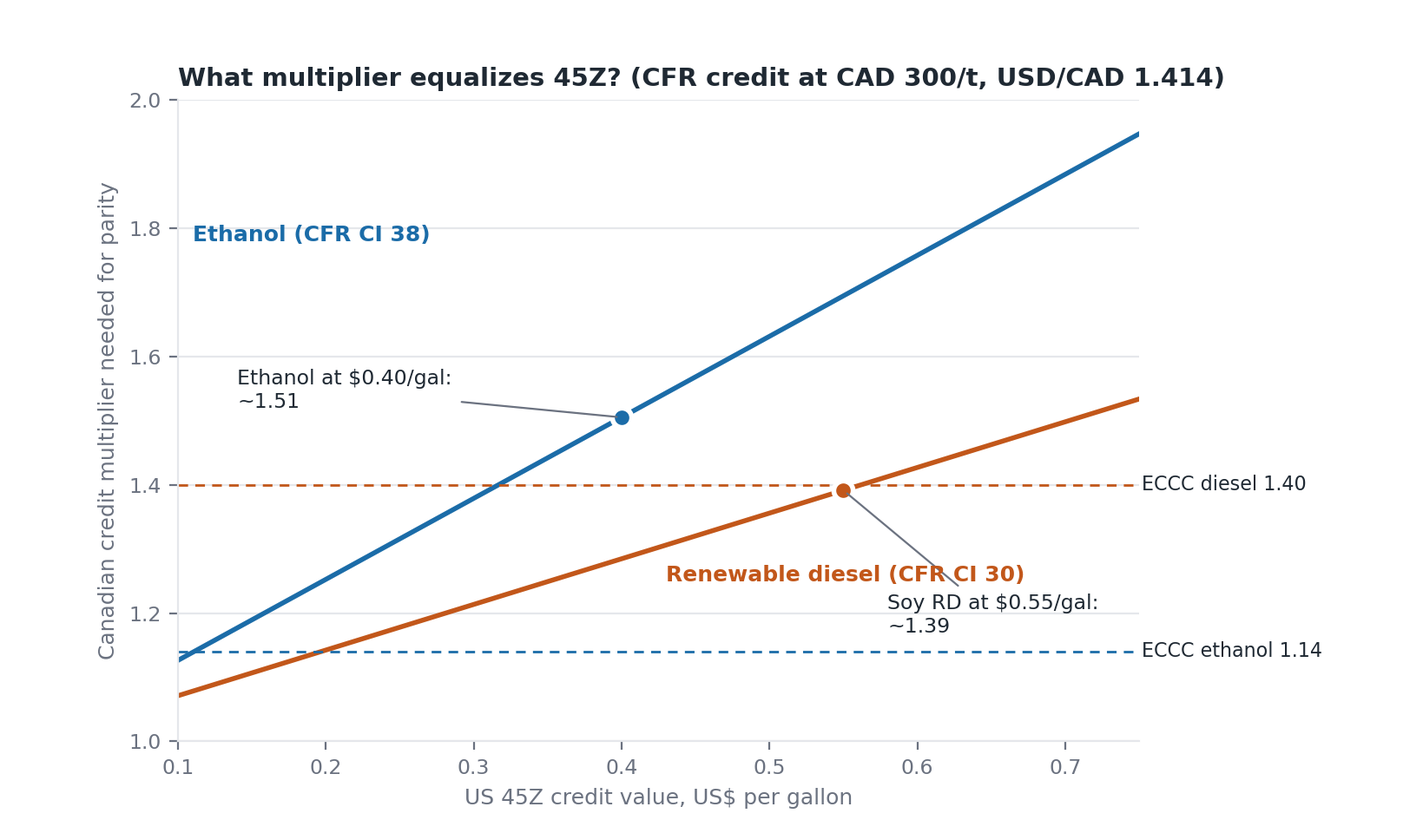
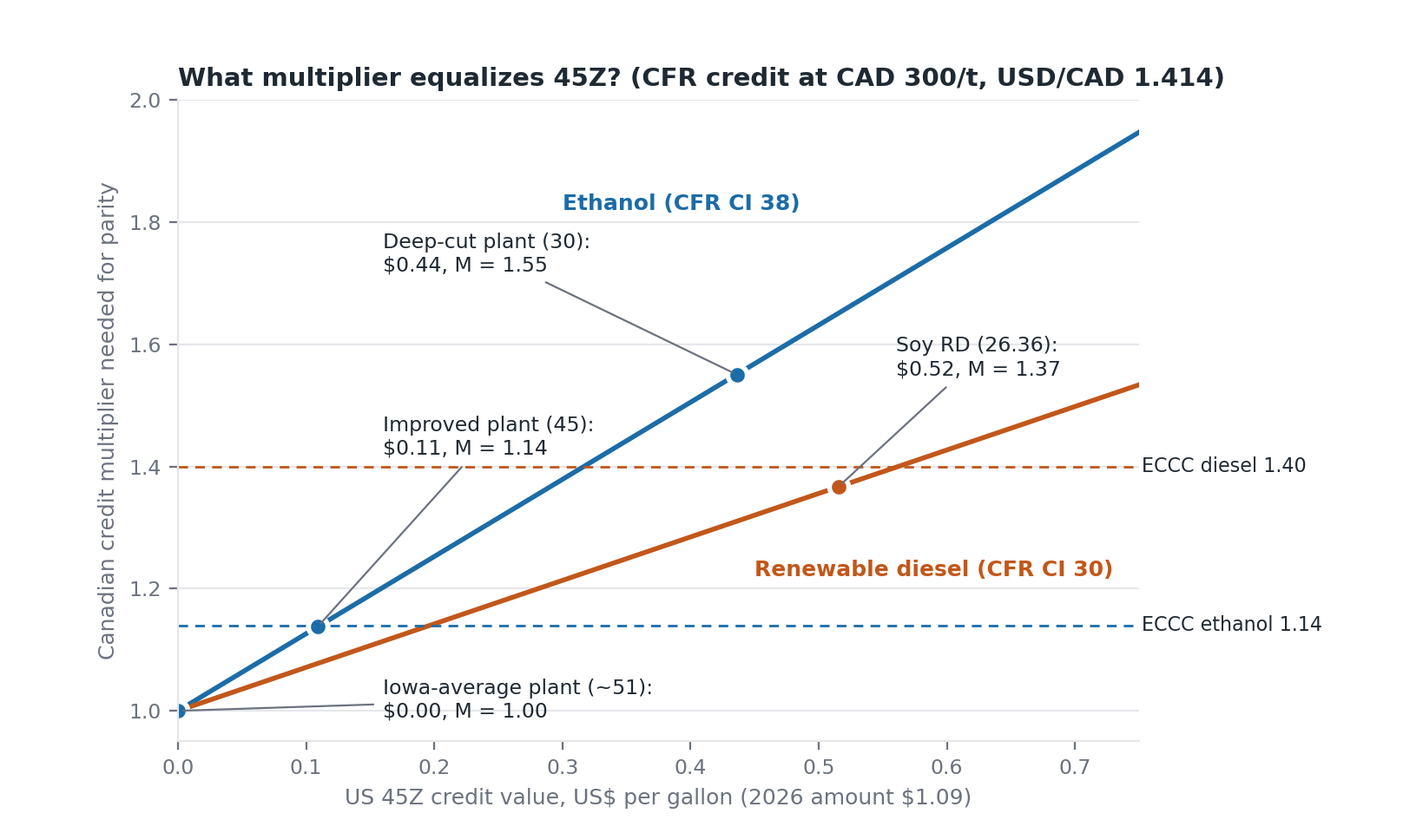
Revise CFR multiplier post per review: CFR explainer, 2026 45Z amount, IRFA Iowa scores, CAD 200 case

diff --git a/_research/2026-09-28-cfr-multiplier-45z-equalization.py b/_research/2026-09-28-cfr-multiplier-45z-equalization.py
@@ -1,17 +1,19 @@
 """
-CFR credit multiplier needed to equalize US 45Z value (per litre, CAD).
+CFR credit multiplier needed to equalize US 45Z value per litre (CAD).
+Rev. 2 (2026-09-28): adds 2026 inflation adjustment ($1.09), IRFA-based Iowa plant
+CI conversion (g/MJ -> kg/mmBtu, ILUC removed), and a CAD 200/t credit-price case.
 
-Equalization logic
-  A US plant earns 45Z (US$ per gallon) PLUS the same CFR credits a Canadian plant
-  earns per litre (multiplier 1.0) when it sells into Canada.
+Parity logic
+  A US plant selling into Canada earns 45Z PLUS ordinary CFR credits (multiplier 1.0).
   A Canadian plant earns CFR credits x M and no 45Z.
-  Parity:  (M - 1) * CFR_value_per_litre = 45Z_value_per_litre (CAD)
-           M = 1 + 45Z_CAD_per_L / CFR_value_per_L
+  (M - 1) * CFR_value_per_litre = 45Z_value_per_litre (CAD)
+  M = 1 + 45Z_CAD_per_L / CFR_value_per_L
 
 CFR credits per litre = (CI_ref - CI_fuel) [g/MJ] * energy density [MJ/L] * 1e-6 [t/g]
-  (Clean Fuel Regulations, credit formula CIdiff x (Q x D) x 10^-6; Schedule 2 energy densities)
-
-45Z per gallon = $1.00 * (50 - CI45Z) / 50   (PWA-compliant rate, CI in kg CO2e/mmBtu)
+  (Clean Fuel Regulations credit formula CIdiff x (Q x D) x 10^-6; Schedule 2 densities)
+45Z per gallon = applicable amount * (50 - rate)/50, rate in kg CO2e/mmBtu.
+  2026 applicable amount with prevailing wage/apprenticeship = $1.00 x 1.0929 = $1.09
+  (IRS Notice 2026-41).
 """
 import numpy as np
 import matplotlib
@@ -20,68 +22,93 @@ import matplotlib.pyplot as plt
 
 # ---- Inputs -------------------------------------------------------------
 L_PER_GAL = 3.785411784
-FX = 1.414                 # CAD per USD, 2026-09-24 (Fed H.10 / MTFX series)
-CI_REF = 80.1              # g/MJ, ECCC discussion paper assumption (both fuels)
-ED = {"ethanol": 23.419e-6, "rd": 34.921e-6, "bd": 35.183e-6}  # MJ/L * 1e-6 -> t per (g/MJ) per L
-PRICE_ECCC = 300.0         # CAD/t, ECCC 2030 assumption
+FX = 1.414                  # CAD per USD, 2026-09-24
+CI_REF = 80.1               # g/MJ, ECCC discussion paper
+ED = {"ethanol": 23.419e-6, "rd": 34.921e-6, "bd": 35.183e-6}
+PRICE_ECCC = 300.0
+AMOUNT_2026 = 1.09          # $/gal, 45Z alternative amount, 2026 (1.00 x 1.0929, rounded)
+MJ_PER_MMBTU = 1055.056
+G_MJ_TO_KG_MMBTU = MJ_PER_MMBTU / 1000.0     # 1.05506
 
 def cfr_value(ci, fuel, price):
-    """CAD per litre of CFR credit value."""
     return (CI_REF - ci) * ED[fuel] * price
 
-def val45z_cad_per_l(ci45z):
-    usd_gal = max(0.0, 1.00 * (50 - ci45z) / 50)
-    return usd_gal / L_PER_GAL * FX
+def usd_gal_45z(rate, amount=AMOUNT_2026):
+    return max(0.0, amount * (50 - rate) / 50)
 
-def multiplier(ci45z, fuel, ci_can, price):
-    return 1 + val45z_cad_per_l(ci45z) / cfr_value(ci_can, fuel, price)
+def cad_l_45z(rate, amount=AMOUNT_2026):
+    return usd_gal_45z(rate, amount) / L_PER_GAL * FX
 
-# ---- 1. Back-test ECCC's published multipliers ---------------------------
-print("== ECCC back-test (CAD 300/t, ref CI 80.1) ==")
+def multiplier(rate, fuel, ci_can, price, amount=AMOUNT_2026):
+    return 1 + cad_l_45z(rate, amount) / cfr_value(ci_can, fuel, price)
+
+# ---- 0. Iowa plant CI from the IRFA (Feb 2023) study --------------------
+print("== Iowa plant CI (IRFA Comparative Economics, Phase 1, Feb 2023) ==")
+LUC_GREET3 = 7.382          # g/MJ, GREET 3.0 default LUC used in the study
+LUC_CA = LUC_GREET3 + 12.62 # g/MJ, CA-GREET LUC (study: 12.62 higher)
+print(f"LUC: GREET3 {LUC_GREET3} g/MJ = {LUC_GREET3*G_MJ_TO_KG_MMBTU:.1f} kg/mmBtu; CA-GREET {LUC_CA:.1f} g/MJ")
+rows = [
+    ("Iowa avg, CA-CI as published (lowest corn-starch score)", 68.25, LUC_CA),
+    ("Iowa avg, CA-CI adjusted to GREET3 LUC", 55.83, LUC_GREET3),
+    ("National avg, GREET 3.0 default (Argonne)", 55.333, LUC_GREET3),
+    ("Iowa best published CA-CI (range low end 59)", 59.0, LUC_CA),
+    ("Iowa worst published CA-CI (range high end 82)", 82.0, LUC_CA),
+]
+for name, ci, luc in rows:
+    ex = ci - luc
+    kg = ex * G_MJ_TO_KG_MMBTU
+    print(f"{name}: {ci} g/MJ -> ex-LUC {ex:.2f} g/MJ = {kg:.1f} kg/mmBtu -> 45Z ${usd_gal_45z(kg):.3f}/gal")
+print("Score with CCS (IRFA: ~30-point cut) from 51:", round(51 - 30, 1), "->", f"${usd_gal_45z(21):.2f}/gal")
+print("Old-basis check: 55.83 g/MJ incl. LUC = %.1f kg/mmBtu" % (55.83 * G_MJ_TO_KG_MMBTU))
+
+# ---- 1. Back-test ECCC ---------------------------------------------------
+print("\n== ECCC back-test (CAD 300/t, ref CI 80.1) ==")
 for fuel, ci, us_c, eccc_m in [("ethanol", 38, 0.05, 1.14), ("rd", 30, 0.23, 1.40)]:
     cv = cfr_value(ci, fuel, PRICE_ECCC)
-    print(f"{fuel}: CFR value {cv*100:.1f} c/L at CI {ci}; ECCC US incentive {us_c*100:.0f} c/L "
-          f"-> implied M = {1+us_c/cv:.3f} (ECCC {eccc_m}); "
-          f"incentive implied by ECCC M = {(eccc_m-1)*cv*100:.1f} c/L")
-# 45Z CI that ECCC's 5c / 23c CAD per L would correspond to
+    print(f"{fuel}: CFR value {cv*100:.1f} c/L; ECCC US incentive {us_c*100:.0f} c/L -> M = {1+us_c/cv:.3f} "
+          f"(ECCC {eccc_m}); incentive implied by ECCC M = {(eccc_m-1)*cv*100:.1f} c/L")
 for fuel, us_c in [("ethanol", 0.05), ("rd", 0.23)]:
     usd_gal = us_c / FX * L_PER_GAL
-    print(f"{fuel}: {us_c*100:.0f} c CAD/L = US${usd_gal:.3f}/gal = 45Z CI of {50-usd_gal*50:.1f} kg/mmBtu")
+    print(f"{fuel}: {us_c*100:.0f} c CAD/L = US${usd_gal:.3f}/gal = 45Z rate of {50 - usd_gal*50/AMOUNT_2026:.1f} kg/mmBtu (at $1.09 amount)")
 
-# ---- 2. Ethanol: Iowa plant 45Z CI scenarios -----------------------------
-eth_ci45 = [45, 40, 35, 30, 25, 20, 15]
-prices = [300, 350, 430]
-print("\n== ETHANOL: multiplier needed (Canadian plant CFR CI 38) ==")
-print("45Z CI | US$/gal | CAD c/L | " + " | ".join(f"CAD{p}" for p in prices))
-for c in eth_ci45:
-    row = [multiplier(c, "ethanol", 38, p) for p in prices]
-    print(f"{c:6} | {1.0*(50-c)/50:7.2f} | {val45z_cad_per_l(c)*100:7.1f} | " + " | ".join(f"{m:5.2f}" for m in row))
+# CFR revenue per million litres (for the explainer)
+print("\nCFR credits per litre, ethanol CI 38:", round((CI_REF-38)*ED['ethanol'], 6), "t/L; per million litres:",
+      round((CI_REF-38)*ED['ethanol']*1e6), "credits; value at CAD 300: $%.0f" % ((CI_REF-38)*ED['ethanol']*1e6*300))
 
-print("\n== ETHANOL: 45Z CI 30 ($0.40/gal), sensitivity to Canadian plant CFR CI, price CAD 300/350 ==")
-for ci_can in [30, 34, 38, 42, 46, 50]:
-    print(ci_can, [round(multiplier(30, "ethanol", ci_can, p), 2) for p in (300, 350)])
+# ---- 2. Ethanol grid ------------------------------------------------------
+prices = [200, 300, 350, 430]
+eth_rates = [51, 48, 45, 43, 41, 40, 35, 30, 25, 21, 15]
+print("\n== ETHANOL: M needed (Canadian plant CFR CI 38) ==")
+print("45Z rate | US$/gal | CAD c/L | " + " | ".join(f"CAD{p}" for p in prices))
+for c in eth_rates:
+    print(f"{c:8} | {usd_gal_45z(c):7.3f} | {cad_l_45z(c)*100:7.1f} | " +
+          " | ".join(f"{multiplier(c,'ethanol',38,p):5.2f}" for p in prices))
 
-# ---- 3. Renewable diesel & biodiesel ------------------------------------
-print("\n== RD (soy, 45Z CI 26.36 = $0.55) / BD (soy, 45Z CI 20.23 = $0.66); Canadian CFR CI 30 ==")
-for label, fuel, c45 in [("RD", "rd", 26.36), ("BD", "bd", 20.23)]:
-    print(label, f"45Z ${(50-c45)/50:.3f}/gal = {val45z_cad_per_l(c45)*100:.1f} c CAD/L;",
-          {p: round(multiplier(c45, fuel, 30, p), 2) for p in prices})
-print("\nRD sensitivity to Canadian CFR CI (45Z CI 26.36):")
+print("\n== ETHANOL sensitivity to Canadian CFR CI (45Z rate 45 and 30), prices 200/300/430 ==")
+for r in (45, 30):
+    for ci_can in [30, 34, 38, 42, 46, 50]:
+        print(r, ci_can, [round(multiplier(r, "ethanol", ci_can, p), 2) for p in (200, 300, 430)])
+
+# ---- 3. RD / BD ---------------------------------------------------------
+print("\n== RD (soy, rate 26.36) / BD (soy, rate 20.23); Canadian CFR CI 30 ==")
+for label, fuel, r, asa in [("RD", "rd", 26.36, 0.55), ("BD", "bd", 20.23, 0.66)]:
+    print(label, f"formula ${usd_gal_45z(r):.3f}/gal ({cad_l_45z(r)*100:.1f} c CAD/L) vs ASA ${asa}:",
+          {p: round(multiplier(r, fuel, 30, p), 2) for p in prices})
+    amt_asa = asa * 50 / (50 - r)
+    print("   ASA-implied applicable amount:", round(amt_asa, 3),
+          {p: round(multiplier(r, fuel, 30, p, amt_asa), 2) for p in prices})
+print("\nRD sensitivity to Canadian CFR CI:")
 for ci_can in [20, 25, 30, 35, 40]:
     print(ci_can, {p: round(multiplier(26.36, "rd", ci_can, p), 2) for p in prices})
-print("\nBD sensitivity to Canadian CFR CI (45Z CI 20.23):")
+print("BD sensitivity to Canadian CFR CI:")
 for ci_can in [20, 25, 30, 35, 40]:
     print(ci_can, {p: round(multiplier(20.23, "bd", ci_can, p), 2) for p in prices})
-print("\nAlt RD/BD 45Z per gallon (older-model soy values 0.11 / 0.33):")
-for label, fuel, usd in [("RD old", "rd", 0.11), ("BD old", "bd", 0.33)]:
-    c45 = 50 - usd * 50
-    print(label, round(multiplier(c45, fuel, 30, 300), 2))
 
 # ---- 4. Chart -------------------------------------------------------------
 INK, MUTED, GRID = "#1f2933", "#6b7280", "#e5e7eb"
 C_ETH, C_RD = "#1b6ca8", "#c2571a"
 fig, ax = plt.subplots(figsize=(8.2, 4.8), dpi=200)
-x = np.linspace(0.10, 0.75, 200)          # US$/gal 45Z value
+x = np.linspace(0.0, 0.75, 200)
 def m_from_usd_gal(u, fuel, ci_can, price):
     return 1 + (u / L_PER_GAL * FX) / cfr_value(ci_can, fuel, price)
 ax.plot(x, m_from_usd_gal(x, "ethanol", 38, 300), color=C_ETH, lw=2)
@@ -90,19 +117,23 @@ ax.axhline(1.14, color=C_ETH, lw=1, ls=(0, (4, 3)))
 ax.axhline(1.40, color=C_RD, lw=1, ls=(0, (4, 3)))
 ax.text(0.752, 1.14, "ECCC ethanol 1.14", color=INK, fontsize=8, va="center")
 ax.text(0.752, 1.40, "ECCC diesel 1.40", color=INK, fontsize=8, va="center")
-# scenario markers
-pts = [("Ethanol\n$0.40 (CI 30)", 0.40, m_from_usd_gal(0.40, "ethanol", 38, 300), C_ETH),
-       ("Soy RD\n$0.55", 0.55, m_from_usd_gal(0.55, "rd", 30, 300), C_RD)]
-for lab, u, m, col in pts:
-    ax.plot([u], [m], "o", ms=8, color=col, mec="white", mew=2)
-ax.annotate("Ethanol at $0.40/gal:\n~%.2f" % m_from_usd_gal(0.40, "ethanol", 38, 300), (0.40, m_from_usd_gal(0.40, "ethanol", 38, 300)),
-            xytext=(0.14, 1.52), fontsize=8.5, color=INK, arrowprops=dict(arrowstyle="-", color=MUTED, lw=0.8))
-ax.annotate("Soy RD at $0.55/gal:\n~%.2f" % m_from_usd_gal(0.55, "rd", 30, 300), (0.55, m_from_usd_gal(0.55, "rd", 30, 300)),
-            xytext=(0.58, 1.17), fontsize=8.5, color=INK, arrowprops=dict(arrowstyle="-", color=MUTED, lw=0.8))
-ax.text(0.11, 1.78, "Ethanol (CFR CI 38)", color=C_ETH, fontsize=9, fontweight="bold")
-ax.text(0.43, 1.25, "Renewable diesel (CFR CI 30)", color=C_RD, fontsize=9, fontweight="bold")
-ax.set_xlim(0.10, 0.75); ax.set_ylim(1.0, 2.0)
-ax.set_xlabel("US 45Z credit value, US$ per gallon", color=MUTED, fontsize=9)
+e1, e2, r1 = usd_gal_45z(45), usd_gal_45z(30), usd_gal_45z(26.36)
+for u, fuel, ci, col in [(e1, "ethanol", 38, C_ETH), (e2, "ethanol", 38, C_ETH), (r1, "rd", 30, C_RD), (0, "ethanol", 38, C_ETH)]:
+    ax.plot([u], [m_from_usd_gal(u, fuel, ci, 300)], "o", ms=8, color=col, mec="white", mew=2)
+def note(txt, pt, xy_text):
+    ax.annotate(txt, pt, xytext=xy_text, fontsize=8.5, color=INK,
+                arrowprops=dict(arrowstyle="-", color=MUTED, lw=0.8))
+note("Iowa-average plant (~51):\n$0.00, M = 1.00", (0, 1.0), (0.16, 0.99))
+note("Improved plant (45):\n$%.2f, M = %.2f" % (e1, m_from_usd_gal(e1, "ethanol", 38, 300)),
+     (e1, m_from_usd_gal(e1, "ethanol", 38, 300)), (0.16, 1.42))
+note("Deep-cut plant (30):\n$%.2f, M = %.2f" % (e2, m_from_usd_gal(e2, "ethanol", 38, 300)),
+     (e2, m_from_usd_gal(e2, "ethanol", 38, 300)), (0.16, 1.72))
+note("Soy RD (26.36):\n$%.2f, M = %.2f" % (r1, m_from_usd_gal(r1, "rd", 30, 300)),
+     (r1, m_from_usd_gal(r1, "rd", 30, 300)), (0.56, 1.55))
+ax.text(0.30, 1.82, "Ethanol (CFR CI 38)", color=C_ETH, fontsize=9, fontweight="bold")
+ax.text(0.45, 1.22, "Renewable diesel (CFR CI 30)", color=C_RD, fontsize=9, fontweight="bold")
+ax.set_xlim(0.0, 0.75); ax.set_ylim(0.95, 2.0)
+ax.set_xlabel("US 45Z credit value, US\$ per gallon (2026 amount \$1.09)", color=MUTED, fontsize=9)
 ax.set_ylabel("Canadian credit multiplier needed for parity", color=MUTED, fontsize=9)
 ax.set_title("What multiplier equalizes 45Z? (CFR credit at CAD 300/t, USD/CAD 1.414)",
              loc="left", fontsize=10.5, color=INK, fontweight="bold")

diff --git a/_posts/2026-09-28-cfr-credit-multiplier-45z-parity.md b/_posts/2026-09-28-cfr-credit-multiplier-45z-parity.md
@@ -1,34 +1,46 @@
 ---
 layout: post
-title: "Ottawa's Proposed Biofuel Credit Multiplier Would Match the US 45Z Credit at 1.14 for Ethanol. Our Math Says Matching an Iowa Plant Takes About 1.5"
+title: "Ottawa's Proposed Biofuel Credit Multiplier vs. the US 45Z Credit: 1.14 Fits an Improved Iowa Ethanol Plant, but the Average Plant Earns Almost Nothing"
 date: 2026-09-28
 categories: [biofuels, trade-policy, energy-policy]
-excerpt: "Environment and Climate Change Canada says a credit multiplier of about 1.14 for ethanol and 1.4 for biomass-based diesel would replicate what US producers get from the 45Z tax credit. The diesel number holds up when you run the math. The ethanol number looks too low once you account for how the US dropped indirect land-use emissions from 45Z scoring in 2026."
+excerpt: "Environment and Climate Change Canada says a credit multiplier of about 1.14 for ethanol and 1.4 for biomass-based diesel would replicate the US 45Z credit. We rebuilt both numbers. Diesel holds up. Ethanol depends almost entirely on which Iowa plant you compare against: an average plant scores right at the 45Z threshold and earns close to nothing, while a plant with deep cuts needs a multiplier above 1.5."
 source: manual
 sources_cited:
   - "https://www.canada.ca/en/environment-climate-change/corporate/transparency/consultations/share-view-ideas-targeted-amendments-clean-fuel-regulations/discussion-paper.html"
+  - "https://www.canada.ca/en/environment-climate-change/services/managing-pollution/energy-production/fuel-regulations/clean-fuel-regulations/regulatory-design.html"
   - "https://www.clearbluemarkets.com/knowledge-base/canadas-clean-fuel-regulations-and-us-45z-incentives-what-to-expect-from-the-cfr-targeted-amendments"
   - "https://ethanolrfa.org/media-and-news/category/news-releases/article/2026/01/rfa-comments-on-proposed-amendments-to-canada-s-clean-fuel-regulations"
   - "https://laws-lois.justice.gc.ca/eng/regulations/SOR-2022-140/page-12.html"
+  - "https://www.irs.gov/pub/irs-irbs/irb26-29.pdf"
   - "https://www.irs.gov/pub/irs-drop/n-26-53.pdf"
   - "https://www.hklaw.com/en/insights/publications/2026/09/section-45z-2026-emissions-rate-table"
-  - "https://www.agbull.com/beyond-rins-45z-carbon-scores-and-trade-redraw-the-biofuels-market/"
   - "https://www.grainjournal.com/article/1153414/updated-45z-model-could-boost-soybean-demand-and-farm-level-value"
   - "https://farmdocdaily.illinois.edu/2026/05/the-clean-fuel-production-tax-credit-45z-introductory-discussion.html"
   - "https://www.foundationeconomics.com/insights/260506_CFRPriceDynamics"
   - "https://www.mtfxgroup.com/tools/historical-currency-exchange-rates/usd-to-cad-rate/"
-  - "https://www.mickco.com/news-insights/greet-model-revised"
 ---
 
 **By Kal Sharven**
 
-**TL;DR:** Ottawa is considering a credit multiplier under the Clean Fuel Regulations (CFR): domestic low-carbon fuel would earn more compliance credits per litre than the same imported fuel. ECCC's December 2025 discussion paper says a multiplier of about **1.4 for biomass-based diesel** and about **1.14 for ethanol** would replicate the per-litre value US producers get from the 45Z tax credit. We reverse-engineered both numbers and then re-ran them against 45Z as it works after the 2026 rule changes. For renewable diesel and biodiesel, ECCC's 1.4 checks out: parity lands at roughly **1.34 to 1.47** depending on the fuel and inputs. For ethanol, it doesn't. ECCC's 1.14 implies a US benefit of about 5 cents CAD per litre, which corresponds to a 45Z score near 43 kg CO2e/mmBtu, or roughly US$0.13 a gallon. But the US removed indirect land-use change (ILUC) emissions from 45Z scoring for fuel made after 2025, and industry analysts put a typical corn ethanol plant near a score of 30, worth about **US$0.40 a gallon**. At that value the multiplier needed for parity is about **1.5**, not 1.14. The gap is not a math error on ECCC's part so much as a timing one: the discussion paper (December 3, 2025) predates the US model update (June 12, 2026) that changed the answer.
+**TL;DR:** Ottawa is considering a credit multiplier under the Clean Fuel Regulations (CFR): domestic low-carbon fuel would earn more compliance credits per litre than the same imported fuel. ECCC's December 2025 discussion paper says a multiplier of about **1.4 for biomass-based diesel** and about **1.14 for ethanol** would replicate the per-litre value US producers get from the 45Z tax credit. We rebuilt both numbers and re-ran them with 2026 45Z rules. For renewable diesel and biodiesel, ECCC's 1.4 checks out: parity lands between about **1.37 and 1.46** at ECCC's CAD 300 credit price. For ethanol, the answer depends on which Iowa plant is the benchmark. Working from published Iowa plant scores and removing the indirect land-use change (ILUC) emissions that 45Z no longer counts, an **average Iowa plant scores about 51 kg CO2e/mmBtu, right at the 50 threshold, and earns roughly nothing** from 45Z, so it needs no multiplier at all. ECCC's 1.14 matches a plant scoring about 44 to 45, worth about US$0.11 a gallon. A plant that cuts its score to 30 (US$0.44) needs about **1.55**, and one with carbon capture needs about **1.8**. The multiplier is a single number applied to every Canadian plant, but the US benefit it is meant to offset ranges from zero to over 60 cents a gallon.
 
-## What Ottawa actually proposed
+## How the Clean Fuel Regulations create value
 
-On September 5, 2025, the federal government announced targeted amendments to the CFR alongside a CAD 370 million Biofuel Production Incentive covering 2026 and 2027. ECCC's [discussion paper](https://www.canada.ca/en/environment-climate-change/corporate/transparency/consultations/share-view-ideas-targeted-amendments-clean-fuel-regulations/discussion-paper.html) laid out two ways to favour domestic low-carbon fuel: a minimum domestic content requirement, or a credit multiplier. The context is import share: in 2024, more than 70% of CFR compliance credits came from imported fuel, mostly from the US, and imported US grain ethanol supplied 61% of the ethanol used to comply, according to the [Renewable Fuels Association](https://ethanolrfa.org/media-and-news/category/news-releases/article/2026/01/rfa-comments-on-proposed-amendments-to-canada-s-clean-fuel-regulations) (RFA). US trade groups have come out in favour of the multiplier over the domestic-content option.
+A multiplier only makes sense once you see where CFR credits get their value, and that starts with the companies that have to buy them.
 
-The multiplier works on credit creation. A domestic low-carbon fuel would generate more credits per litre than the identical imported litre. ECCC left open that different fuels could get different multipliers, and it sized the two headline examples to "the per-litre value Canadian producers are giving up by not having an equivalent to 45Z." Its stated inputs:
+**The obligation.** The CFR obligates "fossil fuel primary suppliers," which for liquid fuels means the companies that produce or import gasoline and diesel in Canada. Each must lower the carbon intensity (CI) of the fuel it supplies, reaching a cut of 10 g CO2e/MJ by 2030 from a 2016 baseline, roughly 11%. That is measured in credits, one credit per tonne of CO2e. At the end of each compliance period, a supplier has to retire credits equal to its obligation.
+
+**How a supplier meets it.** There are three routes: create credits itself, buy them from someone else, or draw on the backstops in the regulation (a payment option and a "credit clearance mechanism" for suppliers that cannot find enough credits). Credits are created in three categories: reducing the emissions of producing fossil fuels (Category 1), supplying low-carbon fuels like ethanol, biodiesel, and renewable diesel (Category 2), and switching end-use fuel to natural gas, propane, or electricity (Category 3). Only Category 2 matters here.
+
+**Where an ethanol plant's value comes from.** A producer or importer of low-CI fuel who is registered under the CFR creates credits according to a formula: (reference CI minus the fuel's CI) times the energy in the fuel, in tonnes. A litre of ethanol at 38 g/MJ, measured against ECCC's 80.1 g/MJ reference, earns about 0.00099 tonnes, or 986 credits per million litres. At CAD 300 a credit, that is about CAD 296,000 per million litres, or roughly 30 cents a litre. The producer does not collect that from the government. It collects it by selling the credits (or the fuel with the credits attached) to obligated suppliers, whose demand is set by the regulation. Credit prices then move with how tight the market is between obligation and supply, which is why they have ranged from the low hundreds to above CAD 400.
+
+**Why imports matter.** The credit belongs to whoever creates it, wherever the fuel was made, so a US plant selling into Canada can earn the same credits as a Canadian plant. In 2024, more than 70% of CFR credits came from imported fuel, mostly from the US, and imported US grain ethanol supplied 61% of the ethanol used for compliance, according to the [Renewable Fuels Association](https://ethanolrfa.org/media-and-news/category/news-releases/article/2026/01/rfa-comments-on-proposed-amendments-to-canada-s-clean-fuel-regulations) (RFA). That is the gap the multiplier targets: the US plant earns the CFR credits **and** the 45Z credit, and the Canadian plant earns only the CFR credits.
+
+## What Ottawa proposed
+
+On September 5, 2025, the federal government announced targeted amendments to the CFR alongside a CAD 370 million Biofuel Production Incentive covering 2026 and 2027. ECCC's [discussion paper](https://www.canada.ca/en/environment-climate-change/corporate/transparency/consultations/share-view-ideas-targeted-amendments-clean-fuel-regulations/discussion-paper.html) laid out two ways to favour domestic low-carbon fuel: a minimum domestic content requirement, or a credit multiplier. US trade groups have come out in favour of the multiplier over the domestic-content option.
+
+The multiplier works on credit creation: a domestic low-carbon fuel would generate more credits per litre than the identical imported litre. ECCC left open that different fuels could get different multipliers, and it sized the two headline examples to "the per-litre value Canadian producers are giving up by not having an equivalent to 45Z." Its stated inputs:
 
 | | Renewable diesel | Ethanol |
 |---|---|---|
@@ -38,59 +50,58 @@ The multiplier works on credit creation. A domestic low-carbon fuel would genera
 | Average fuel carbon intensity | 30 g CO2e/MJ | 38 g CO2e/MJ |
 | US production incentive | ~23 cents CAD/L | ~5 cents CAD/L |
 
-As of the most recent reporting we could find (late August 2026), draft regulatory text had not yet appeared in the Canada Gazette, Part I, so none of this is final.
-
 ## The parity math
 
-Setting the multiplier so a Canadian plant matches a US plant is a one-line calculation. A US plant selling into Canada earns 45Z **plus** the ordinary CFR credits (multiplier of 1.0). A Canadian plant earns CFR credits times M and no 45Z. Parity requires:
+Setting the multiplier so a Canadian plant matches a US plant is a one-line calculation. A US plant selling into Canada earns 45Z **plus** the ordinary CFR credits (a multiplier of 1.0). A Canadian plant earns CFR credits times M and no 45Z. Parity requires:
 
 **M = 1 + (45Z value per litre, in CAD) / (CFR credit value per litre, in CAD)**
 
 Both pieces are computable from public rules:
 
 - **CFR credits per litre** = (reference CI − fuel CI) × energy density × 10⁻⁶, multiplied by the credit price. The [regulations](https://laws-lois.justice.gc.ca/eng/regulations/SOR-2022-140/page-12.html) (Schedule 2) set energy density at 23.419 MJ/L for ethanol, 34.921 MJ/L for renewable diesel, and 35.183 MJ/L for biodiesel.
-- **45Z value per gallon** = US$1.00 × (50 − emissions rate) / 50, where the rate is in kg CO2e/mmBtu and the $1.00 assumes the prevailing-wage and apprenticeship requirements are met. Without them the credit is one-fifth of that.
+- **45Z value per gallon** = the applicable amount × (50 − emissions rate) / 50, where the rate is in kg CO2e/mmBtu. The statutory $1.00 (which requires prevailing-wage and apprenticeship compliance) is indexed to inflation. IRS [Notice 2026-41](https://www.irs.gov/pub/irs-irbs/irb26-29.pdf) sets the 2026 factor at 1.0929, which makes the 2026 amount **$1.09** a gallon (the no-wage-compliance base amount is 22 cents).
 - **Conversion**: 3.785 litres per gallon and USD/CAD of 1.414 (the September 24 rate).
 
-**Back-testing ECCC.** Plugging ECCC's own inputs into this formula gives 1.17 for ethanol and 1.44 for renewable diesel, against its published 1.14 and 1.4. The diesel figure is close. The ethanol figure implies ECCC used a US benefit nearer 4 cents CAD/L than 5. That is well within the "approximately" in the paper, and it tells us the formula is a fair reconstruction of ECCC's method, which the paper does not spell out. (ECCC does not disclose the exchange rate or the exact 45Z score it used.)
+**Back-testing ECCC.** Plugging ECCC's own inputs into this formula gives 1.17 for ethanol and 1.44 for renewable diesel, against its published 1.14 and 1.4. The diesel figure is close. The ethanol figure implies ECCC used a US benefit nearer 4 cents CAD/L than 5, well within the "approximately" in the paper. ECCC's 5 cents converts to about US$0.13 a gallon, or a 45Z score of about 44 kg CO2e/mmBtu. The paper does not disclose the exchange rate or the exact 45Z score it used.
 
-## Ethanol: what an Iowa plant's 45Z score means for the multiplier
+## Ethanol: what Iowa plants actually score
 
-The right starting question is what an Iowa dry-mill plant's credit actually is, and that is where ECCC's number gets shaky. Notice 2026-53, issued September 8, confirms that fuel made after 2025 must [exclude ILUC emissions](https://www.hklaw.com/en/insights/publications/2026/09/section-45z-2026-emissions-rate-table) from 45Z scoring, and that feedstock must come from the US, Canada, or Mexico. The updated 45ZCF-GREET model published June 12 implements this. The notice points plants to the model and does not publish a "typical plant" score, so each plant computes its own. Industry analysts have described the ILUC removal as dropping an average corn ethanol plant's score by 20 to 25 points, and one recent market [analysis](https://www.agbull.com/beyond-rins-45z-carbon-scores-and-trade-redraw-the-biofuels-market/) uses a score of 30 kg CO2e/mmBtu as an illustration, worth $0.40 a gallon. We treat a range of scores as scenarios, since we could not locate an official plant-average figure.
+The right starting question is what an Iowa dry-mill plant's 45Z score really is. The best public data we could find is the Iowa Renewable Fuels Association's *Comparative Economics of Carbon Sequestration for Iowa Ethanol Plants, Phase 1* (February 2023). It reports published California-model (CA-GREET) scores for Iowa plants of **59 to 82 g CO2e/MJ**, with a state average of **68.25** for each plant's lowest published corn-starch score. Three adjustments matter before those numbers say anything about 45Z:
 
-The table shows the multiplier that equalizes each score, for a Canadian plant at ECCC's assumed CFR carbon intensity of 38 g/MJ, at three credit prices:
+1. **Units.** The study reports g CO2e/MJ. The 45Z credit uses kg CO2e/mmBtu. One mmBtu is 1,055 MJ, so multiply g/MJ by **1.055** to get kg/mmBtu.
+2. **ILUC.** Fuel made after 2025 must [exclude](https://www.hklaw.com/en/insights/publications/2026/09/section-45z-2026-emissions-rate-table) indirect land-use change emissions (Notice 2026-53, September 8). The California model carries about 20 g/MJ of land-use change; the GREET 3.0 default used in the study is 7.4 g/MJ. So removing it takes about 7.4 g/MJ (about 7.8 kg/mmBtu) off a GREET-based score, and about 20 g/MJ off a California-model score. Trade coverage that describes ILUC removal as worth "20 to 25 points" appears to reflect the California-model figure. Against the GREET-based score that 45Z uses, the change is far smaller, closer to 8 kg/mmBtu at the GREET 3.0 default (later GREET versions may carry a somewhat different value).
+3. **Model and year.** These are 2023 scores under California-model assumptions. The 45ZCF-GREET model (updated June 12 and September 8, 2026) differs in other inputs, plants have made efficiency gains since 2023, and 45Z now lets producers earn additional reductions from low-carbon farming practices.
 
-| 45Z score (kg CO2e/mmBtu) | 45Z value (US$/gal) | 45Z value (CAD c/L) | M at CAD 300/t | M at CAD 350/t | M at CAD 430/t |
-|---|---|---|---|---|---|
-| 45 | $0.10 | 3.7 | 1.13 | 1.11 | 1.09 |
-| 40 | $0.20 | 7.5 | 1.25 | 1.22 | 1.18 |
-| 35 | $0.30 | 11.2 | 1.38 | 1.32 | 1.26 |
-| **30** | **$0.40** | **14.9** | **1.51** | **1.43** | **1.35** |
-| 25 | $0.50 | 18.7 | 1.63 | 1.54 | 1.44 |
-| 20 | $0.60 | 22.4 | 1.76 | 1.65 | 1.53 |
-| 15 | $0.70 | 26.1 | 1.88 | 1.76 | 1.62 |
+Putting those together, an average Iowa plant lands at about **51 kg CO2e/mmBtu**, based on the study's GREET-adjusted average of 55.83 g/MJ (less 7.4 for ILUC, times 1.055). The study's national GREET default of 55.3 g/MJ works out to 50.6. The best published Iowa score in the range (59 g/MJ on the California model) works out to about 41; the worst (82) works out to about 65, which earns nothing. The study's own estimate that carbon capture cuts a plant's score by about 30 points would bring a 51 plant to about 21.
 
-ECCC's 1.14 corresponds to the top row, a plant scoring in the mid-40s and collecting about ten cents a gallon. That is roughly what a typical plant would have looked like with ILUC still in the score. It is not what the same plant collects in 2026. A plant with carbon capture, which the same analysts put in the low teens on the 45Z scale, sits at the bottom of the table and would need a multiplier of about 1.9 at CAD 300.
+The table shows the multiplier that equalizes each score, for a Canadian plant at ECCC's assumed CFR carbon intensity of 38 g/MJ, at four credit prices. The CAD 200 column is a stress case: credit prices are above CAD 400 today, but they have moved widely and the multiplier is only as valuable as the credit it multiplies.
 
-Two other inputs move the answer:
+| 45Z score (kg CO2e/mmBtu) | Plant type | 45Z value (US$/gal) | 45Z value (CAD c/L) | M at CAD 200/t | M at CAD 300/t | M at CAD 350/t | M at CAD 430/t |
+|---|---|---|---|---|---|---|---|
+| 51 | Iowa average (IRFA, ILUC removed) | $0.00 | 0.0 | 1.00 | 1.00 | 1.00 | 1.00 |
+| 48 | Modest improvement | $0.04 | 1.6 | 1.08 | 1.06 | 1.05 | 1.04 |
+| **45** | **Improved plant (≈ECCC's implied 44)** | **$0.11** | **4.1** | **1.21** | **1.14** | **1.12** | **1.10** |
+| 41 | Best published Iowa score | $0.20 | 7.3 | 1.37 | 1.25 | 1.21 | 1.17 |
+| 35 | Large cuts | $0.33 | 12.2 | 1.62 | 1.41 | 1.35 | 1.29 |
+| 30 | Deeper cuts | $0.44 | 16.3 | 1.83 | 1.55 | 1.47 | 1.38 |
+| 21 | Carbon capture (IRFA ~30-point cut) | $0.63 | 23.6 | 2.20 | 1.80 | 1.68 | 1.56 |
 
-- **The Canadian plant's own score.** A Canadian plant with a higher CFR carbon intensity earns fewer credits per litre, so the multiplier has a smaller base to work on and must be larger to deliver the same cents. At a 45Z score of 30 and CAD 300, parity ranges from 1.42 (Canadian CI of 30) to 1.71 (CI of 50).
-- **The credit price.** The multiplier scales the credit, so its dollar value rises and falls with the CFR price. CFR credits reportedly [reached CAD 430 per tonne](https://www.foundationeconomics.com/insights/260506_CFRPriceDynamics) in early April 2026, well above ECCC's CAD 300 assumption for 2030. At CAD 430, parity for the $0.40 plant falls to 1.35. If credit prices stay high, a smaller multiplier does the same job.
+Reading it across: at ECCC's own credit price, its 1.14 is right for a plant that has taken a few points off the average, and too high for the average plant, which earns nothing from 45Z. It is too low for a plant that gets its score to the mid-30s or below. The multiplier is also much more sensitive to the credit price when the US benefit is large: for the score-30 plant it runs from 1.83 at CAD 200 to 1.38 at CAD 430.
+
+One more input moves the answer: the Canadian plant's own CFR score. A Canadian plant with a higher carbon intensity earns fewer credits per litre, so the multiplier has a smaller base to work on and must be larger to deliver the same cents. For the 45 plant at CAD 300, parity ranges from 1.12 (Canadian CI of 30) to 1.19 (CI of 50); for the score-30 plant it ranges from 1.46 to 1.77.
 
 ## Renewable diesel and biodiesel
 
-The diesel side is where ECCC's number holds. The soybean pathway is scored with the same ILUC exclusion. The American Soybean Association, as [reported](https://www.grainjournal.com/article/1153414/updated-45z-model-could-boost-soybean-demand-and-farm-level-value) by Grain Journal on August 28, puts soybean-oil renewable diesel at a score of 26.36 (down from 42.60), worth $0.55 a gallon, and soybean biodiesel at 20.23 (down from 33.70), worth $0.66 a gallon.
+The diesel side is where ECCC's number holds. The soybean pathway gets the same ILUC exclusion. The American Soybean Association, as [reported](https://www.grainjournal.com/article/1153414/updated-45z-model-could-boost-soybean-demand-and-farm-level-value) by Grain Journal on August 28, puts soybean-oil renewable diesel at a score of 26.36 (down from 42.60) and soybean biodiesel at 20.23 (down from 33.70). Applying the 2026 formula at $1.09 gives **$0.52** a gallon for renewable diesel and **$0.65** for biodiesel. The ASA quotes slightly higher figures ($0.55 and $0.66); using those would raise the multipliers below by up to 0.02.
 
-One inconsistency to flag: applying the statutory formula to those scores gives $0.47 and $0.60, not $0.55 and $0.66. We do not know whether the gap reflects inflation indexing, rounding, or a different basis in the ASA's calculation, so we show both. Parity for a Canadian plant at a CFR score of 30 g/MJ, using each version:
+Parity for a Canadian plant at a CFR score of 30 g/MJ:
 
-| Fuel | 45Z basis | M at CAD 300/t | M at CAD 350/t | M at CAD 430/t |
-|---|---|---|---|---|
-| Renewable diesel (soy, CI 26.36) | Formula, $0.47/gal | 1.34 | 1.29 | 1.23 |
-| Renewable diesel (soy, CI 26.36) | ASA figure, $0.55/gal | 1.39 | 1.33 | 1.27 |
-| Biodiesel (soy, CI 20.23) | Formula, $0.60/gal | 1.42 | 1.36 | 1.29 |
-| Biodiesel (soy, CI 20.23) | ASA figure, $0.66/gal | 1.47 | 1.40 | 1.33 |
+| Fuel | 45Z value (US$/gal) | 45Z value (CAD c/L) | M at CAD 200/t | M at CAD 300/t | M at CAD 350/t | M at CAD 430/t |
+|---|---|---|---|---|---|---|
+| Renewable diesel (soy, score 26.36) | $0.52 | 19.3 | 1.55 | 1.37 | 1.31 | 1.26 |
+| Biodiesel (soy, score 20.23) | $0.65 | 24.2 | 1.69 | 1.46 | 1.39 | 1.32 |
 
-At ECCC's own credit price, its 1.4 sits just above the renewable diesel range (1.34 to 1.39) and just below the biodiesel range (1.42 to 1.47), so it is a fair round number for both. If the reference is waste-based feedstock with a much lower score, the 45Z credit would be larger and the multiplier needed would be higher.
+At ECCC's own credit price, its 1.4 sits between the two, so it is a fair round number for both fuels. At CAD 200 the multiplier needed climbs to 1.55 to 1.70, and at CAD 430 it falls to 1.26 to 1.32. If the reference feedstock is waste-based with a much lower score, the 45Z credit is larger and the multiplier needed is higher.
 
 The chart shows the relationship directly. The ethanol line is steeper because ethanol earns fewer CFR credits per litre than diesel-range fuels at the same credit price, so each extra cent of 45Z requires more multiplier to offset.
 
@@ -98,14 +109,14 @@ The chart shows the relationship directly. The ethanol line is steeper because e
 
 ## Caveats that cut both ways
 
-- **45Z has an end date; the CFR does not.** The US credit runs for fuel sold through 2029. A multiplier written into a permanent regulation would outlast the benefit it is meant to match.
-- **A higher multiplier puts more credits into the market.** More supply pushes the credit price down, which shrinks the dollar value of every credit, including the multiplied ones. ECCC lists credit-market impact among its factors for choosing multipliers. This is a self-limiting effect, and the CAD 300 versus CAD 430 columns show how much the price matters.
+- **45Z has an end date; the CFR does not, unless 45Z gets extended again.** The US credit currently runs for fuel sold through 2029. A multiplier written into a permanent regulation would outlast the benefit it is meant to match, unless Congress extends 45Z again.
+- **A higher multiplier puts more credits into the market.** More supply pushes the credit price down, which shrinks the dollar value of every credit, including the multiplied ones. ECCC lists credit-market impact among its factors for choosing multipliers. The CAD 200 to CAD 430 columns show how much the price matters.
 - **The 45Z is monetized at a discount.** Most plants sell the credit rather than use it, and a sale price below face value shaves the US benefit and therefore the multiplier needed. We show face value throughout.
 - **This is per-litre parity, not a full competitiveness comparison.** It ignores feedstock costs, freight, RIN and LCFS revenue, and the separate Biofuel Production Incentive, which would offset part of the gap for Canadian producers for two years.
-- **The ethanol score is a scenario.** We found no official plant-average 45Z score for corn ethanol. The $0.40 example comes from a secondary analysis; a plant's real figure depends on its own inputs and, increasingly, on farm-level practices through the USDA feedstock calculator.
+- **The Iowa scores are dated and model-dependent.** The IRFA figures are from 2023 and use California-model assumptions. We removed ILUC and converted units, but a plant's actual 2026 score depends on its own inputs and, increasingly, on farm-level practices through the USDA feedstock calculator. Treat 51 as an estimate of the average, not a certified figure.
 
 ## What to watch
 
-The number that matters is the one in the Canada Gazette. If ECCC finalizes an ethanol multiplier near 1.14 while 45Z pays a typical plant near $0.40 a gallon, the multiplier closes roughly a quarter of the gap on our numbers, and a US plant would still hold most of its per-litre advantage on Canadian sales. If ECCC re-runs its ethanol estimate with the post-ILUC 45Z scores, the multiplier it publishes could move toward the 1.4 to 1.5 range. The credit price is the other variable: at the CAD 400-plus prices seen this spring, a given multiplier does more work than ECCC's CAD 300 planning assumption suggests.
+The number that matters is the one in the Canada Gazette, and draft regulatory text had not been published as of the latest reporting we found. Three things will decide whether a multiplier near 1.14 does what ECCC intends. The first is the distribution of US plant scores: if the average Iowa plant stays near the threshold, 1.14 already over-compensates for most US supply, while the plants that pull ahead through carbon capture or farm practices would keep an advantage the multiplier does not close. The second is the credit price: at CAD 400-plus a given multiplier does more work than ECCC's CAD 300 planning assumption suggests, and at CAD 200 it does much less. The third is whether ECCC sets different multipliers by fuel, as its paper allows, since diesel and ethanol come out differently.
 
-*The model behind these tables, including the ECCC back-test and sensitivity runs, is saved in the site's `_research` folder as `2026-09-28-cfr-multiplier-45z-equalization.py`.*
+*The model behind these tables, including the ECCC back-test, the unit conversion of the IRFA plant scores, and the sensitivity runs, is saved in the site's `_research` folder as `2026-09-28-cfr-multiplier-45z-equalization.py`.*

diff --git a/_social/2026-09-28-cfr-credit-multiplier-45z-parity.md b/_social/2026-09-28-cfr-credit-multiplier-45z-parity.md
@@ -6,15 +6,15 @@ Post: /_posts/2026-09-28-cfr-credit-multiplier-45z-parity.md
 
 Ottawa is weighing a credit multiplier under the Clean Fuel Regulations so domestic biofuel earns more compliance credits than imports. ECCC says about 1.4 for biomass-based diesel and about 1.14 for ethanol would replicate what US producers get from the 45Z tax credit.
 
-We reverse-engineered both numbers and re-ran them against 45Z as it works after the 2026 rule changes.
+We rebuilt both numbers with 2026 rules ($1.09/gal 45Z amount after inflation indexing, ILUC removed from scoring).
 
-Diesel: ECCC's 1.4 holds up. Parity for soy renewable diesel and biodiesel lands between about 1.34 and 1.47, depending on the 45Z value used and the credit price.
+Diesel: ECCC's 1.4 holds up. Parity for soy renewable diesel and biodiesel lands between about 1.37 and 1.46 at ECCC's CAD 300 credit price.
 
-Ethanol: 1.14 looks low. It implies a US benefit of about 5 cents CAD per litre, roughly what a plant scoring in the mid-40s on the 45Z scale would have earned with indirect land-use change (ILUC) still in the score. The US removed ILUC for fuel made after 2025. Industry analysts put a typical corn ethanol plant near a score of 30, worth about US$0.40 a gallon. At that value, parity is about 1.5 at ECCC's CAD 300 credit price, and about 1.35 at the CAD 430 prices seen this spring.
+Ethanol: it depends on which Iowa plant you compare against. Published Iowa plant scores (IRFA, 2023), converted to 45Z units and stripped of ILUC, put the average plant at about 51 kg CO2e/mmBtu. That's right at the 50 threshold, so the average plant earns roughly nothing from 45Z. ECCC's 1.14 matches a plant scoring about 44 to 45 (about US$0.11/gal). A plant that gets to 30 needs about 1.55. A plant with carbon capture needs about 1.8.
 
-The discussion paper (Dec 2025) predates the US model update (June 2026), which explains most of the gap. Draft regulations haven't been published yet, so there's still time for the number to move.
+So one multiplier has to cover a US benefit that runs from zero to over 60 cents a gallon. And it's sensitive to the credit price: at CAD 200 the numbers climb sharply, at CAD 430 they fall.
 
-Full tables, sensitivities and caveats on the site.
+Full tables, a plain-English explainer on how CFR credits create value, and caveats on the site.
 
 [link]
 
@@ -22,4 +22,4 @@ Full tables, sensitivities and caveats on the site.
 
 ## X / Twitter
 
-ECCC says a 1.14 credit multiplier for ethanol would match US 45Z. Post-2026 rules (no ILUC), a typical Iowa plant's 45Z is ~$0.40/gal, which implies ~1.5 at CAD 300 credits. Diesel's 1.4 holds up. Why the gap: [link]
+ECCC says a 1.14 credit multiplier for ethanol would match US 45Z. We ran it against Iowa plant scores: the average plant sits right at the 45Z threshold and earns ~nothing; 1.14 fits a plant at ~45; carbon capture needs ~1.8. Diesel's 1.4 holds up. [link]
